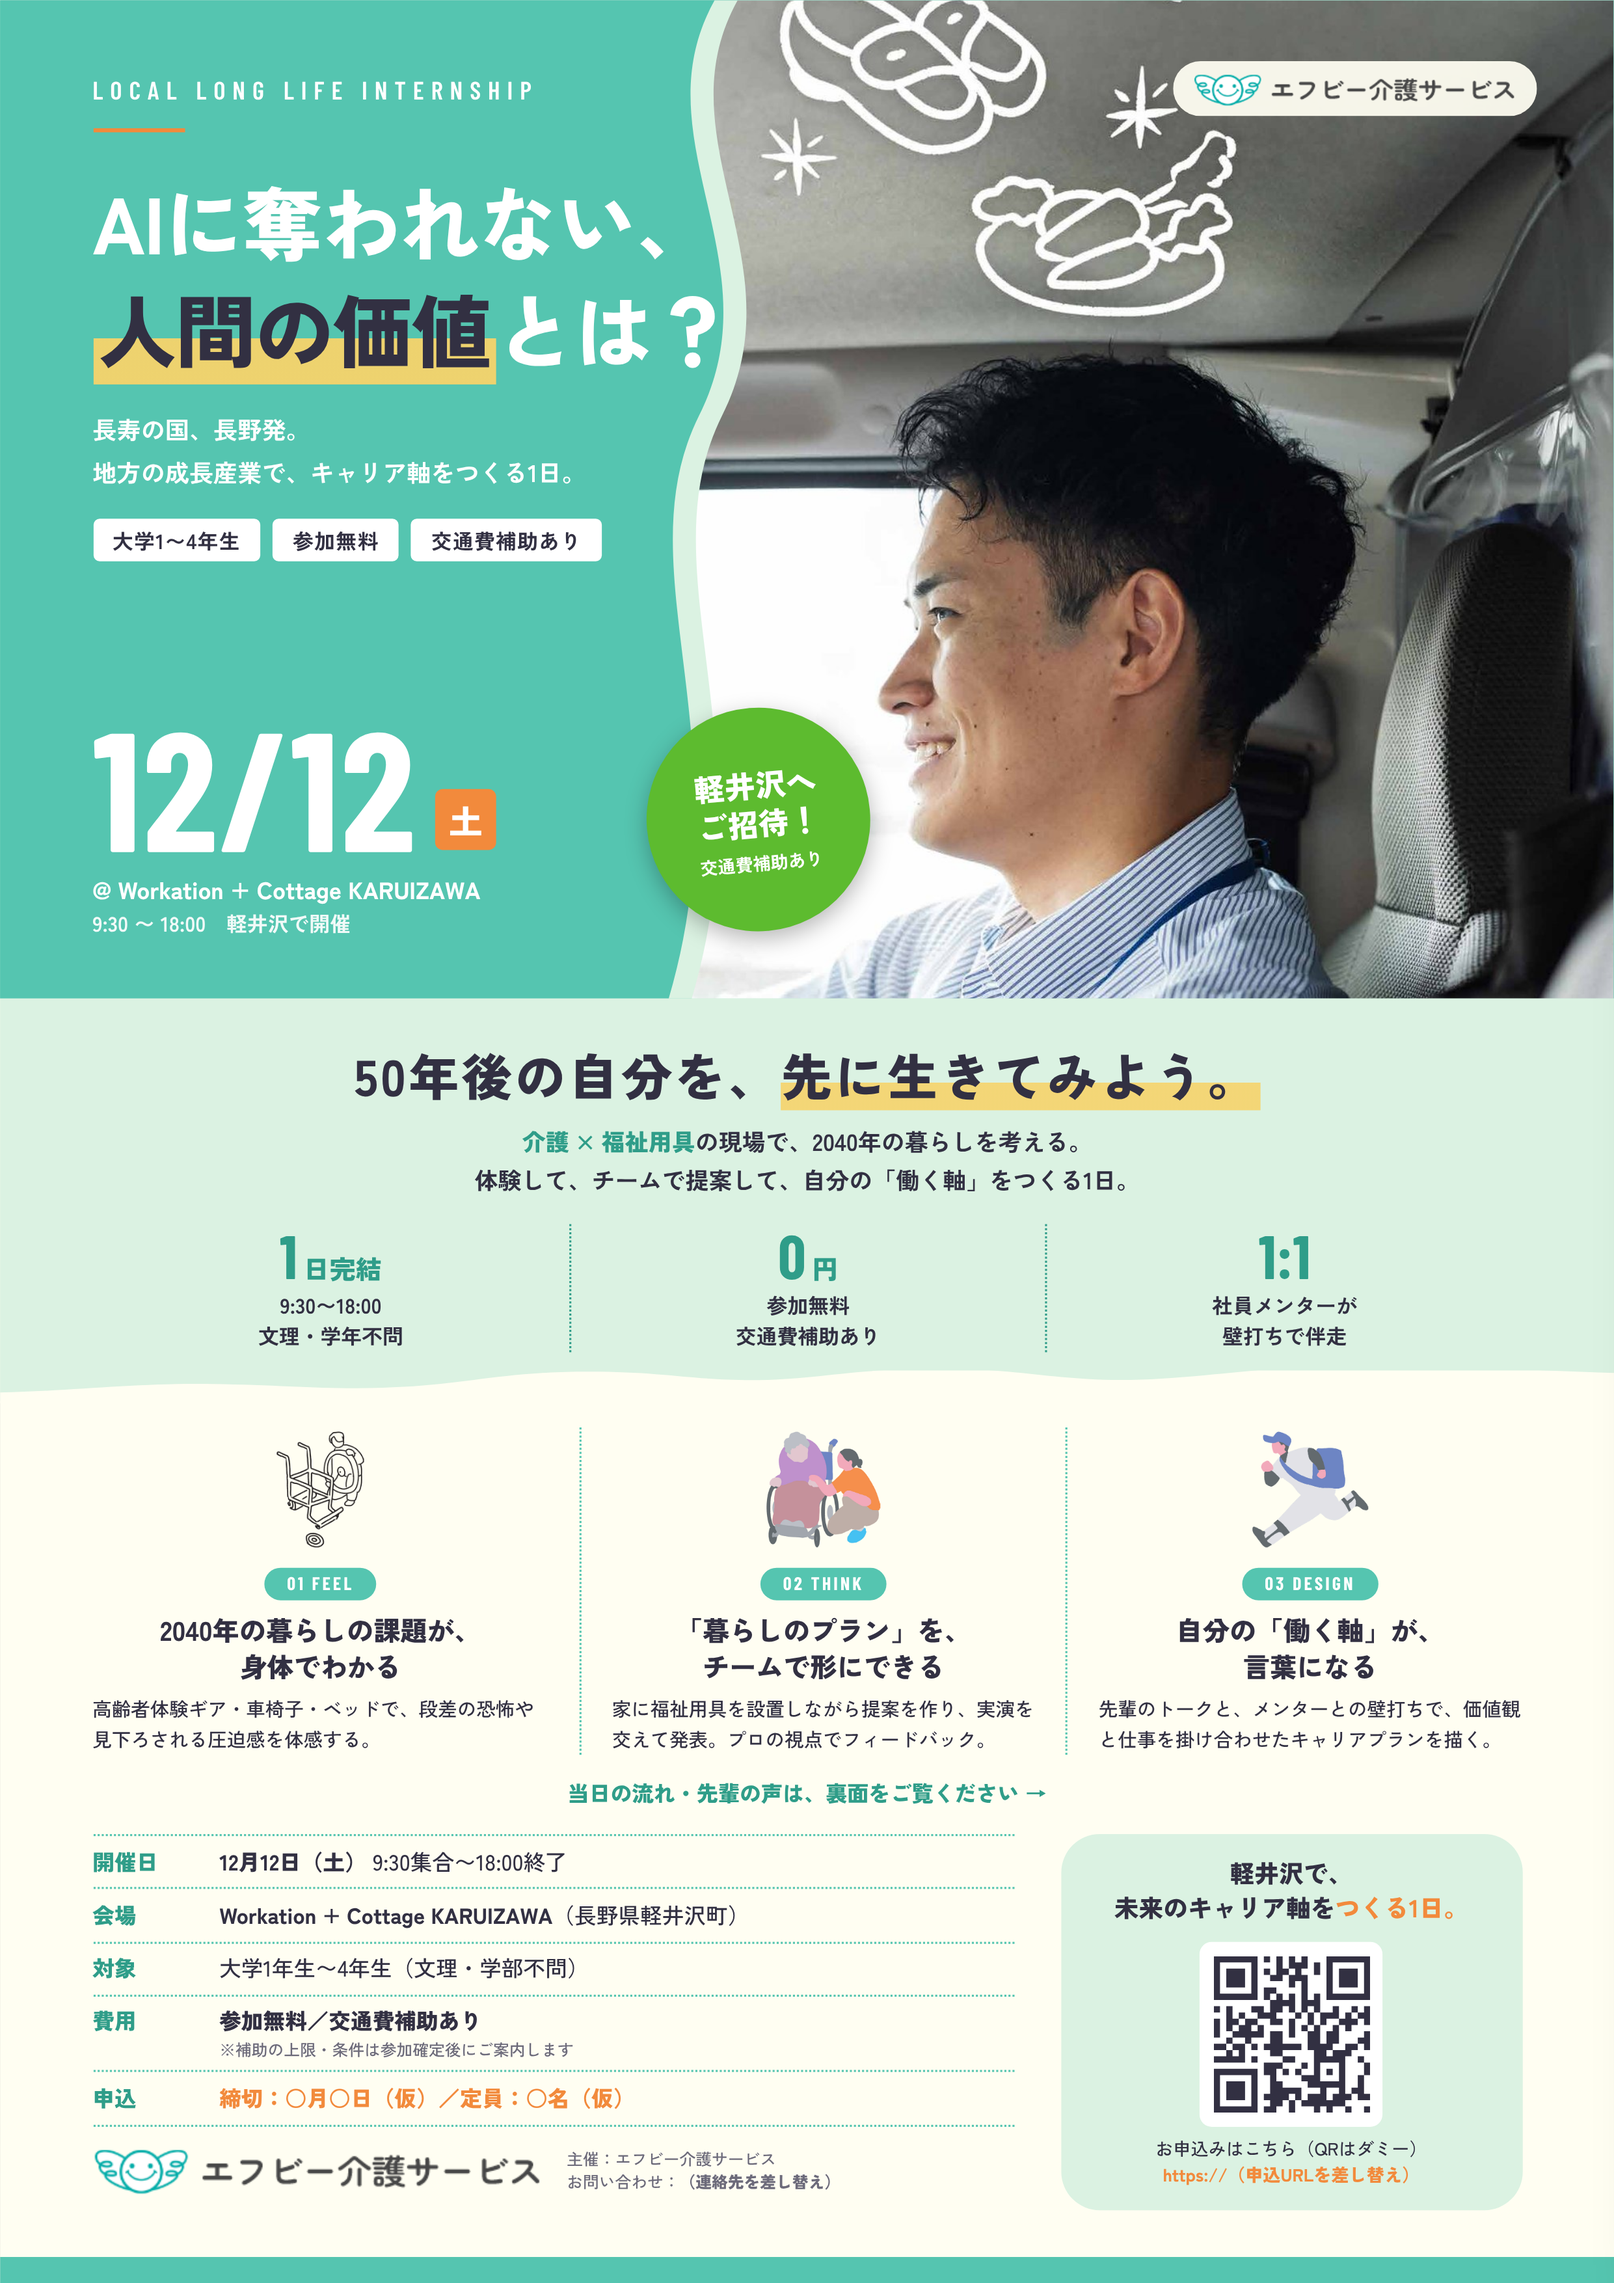
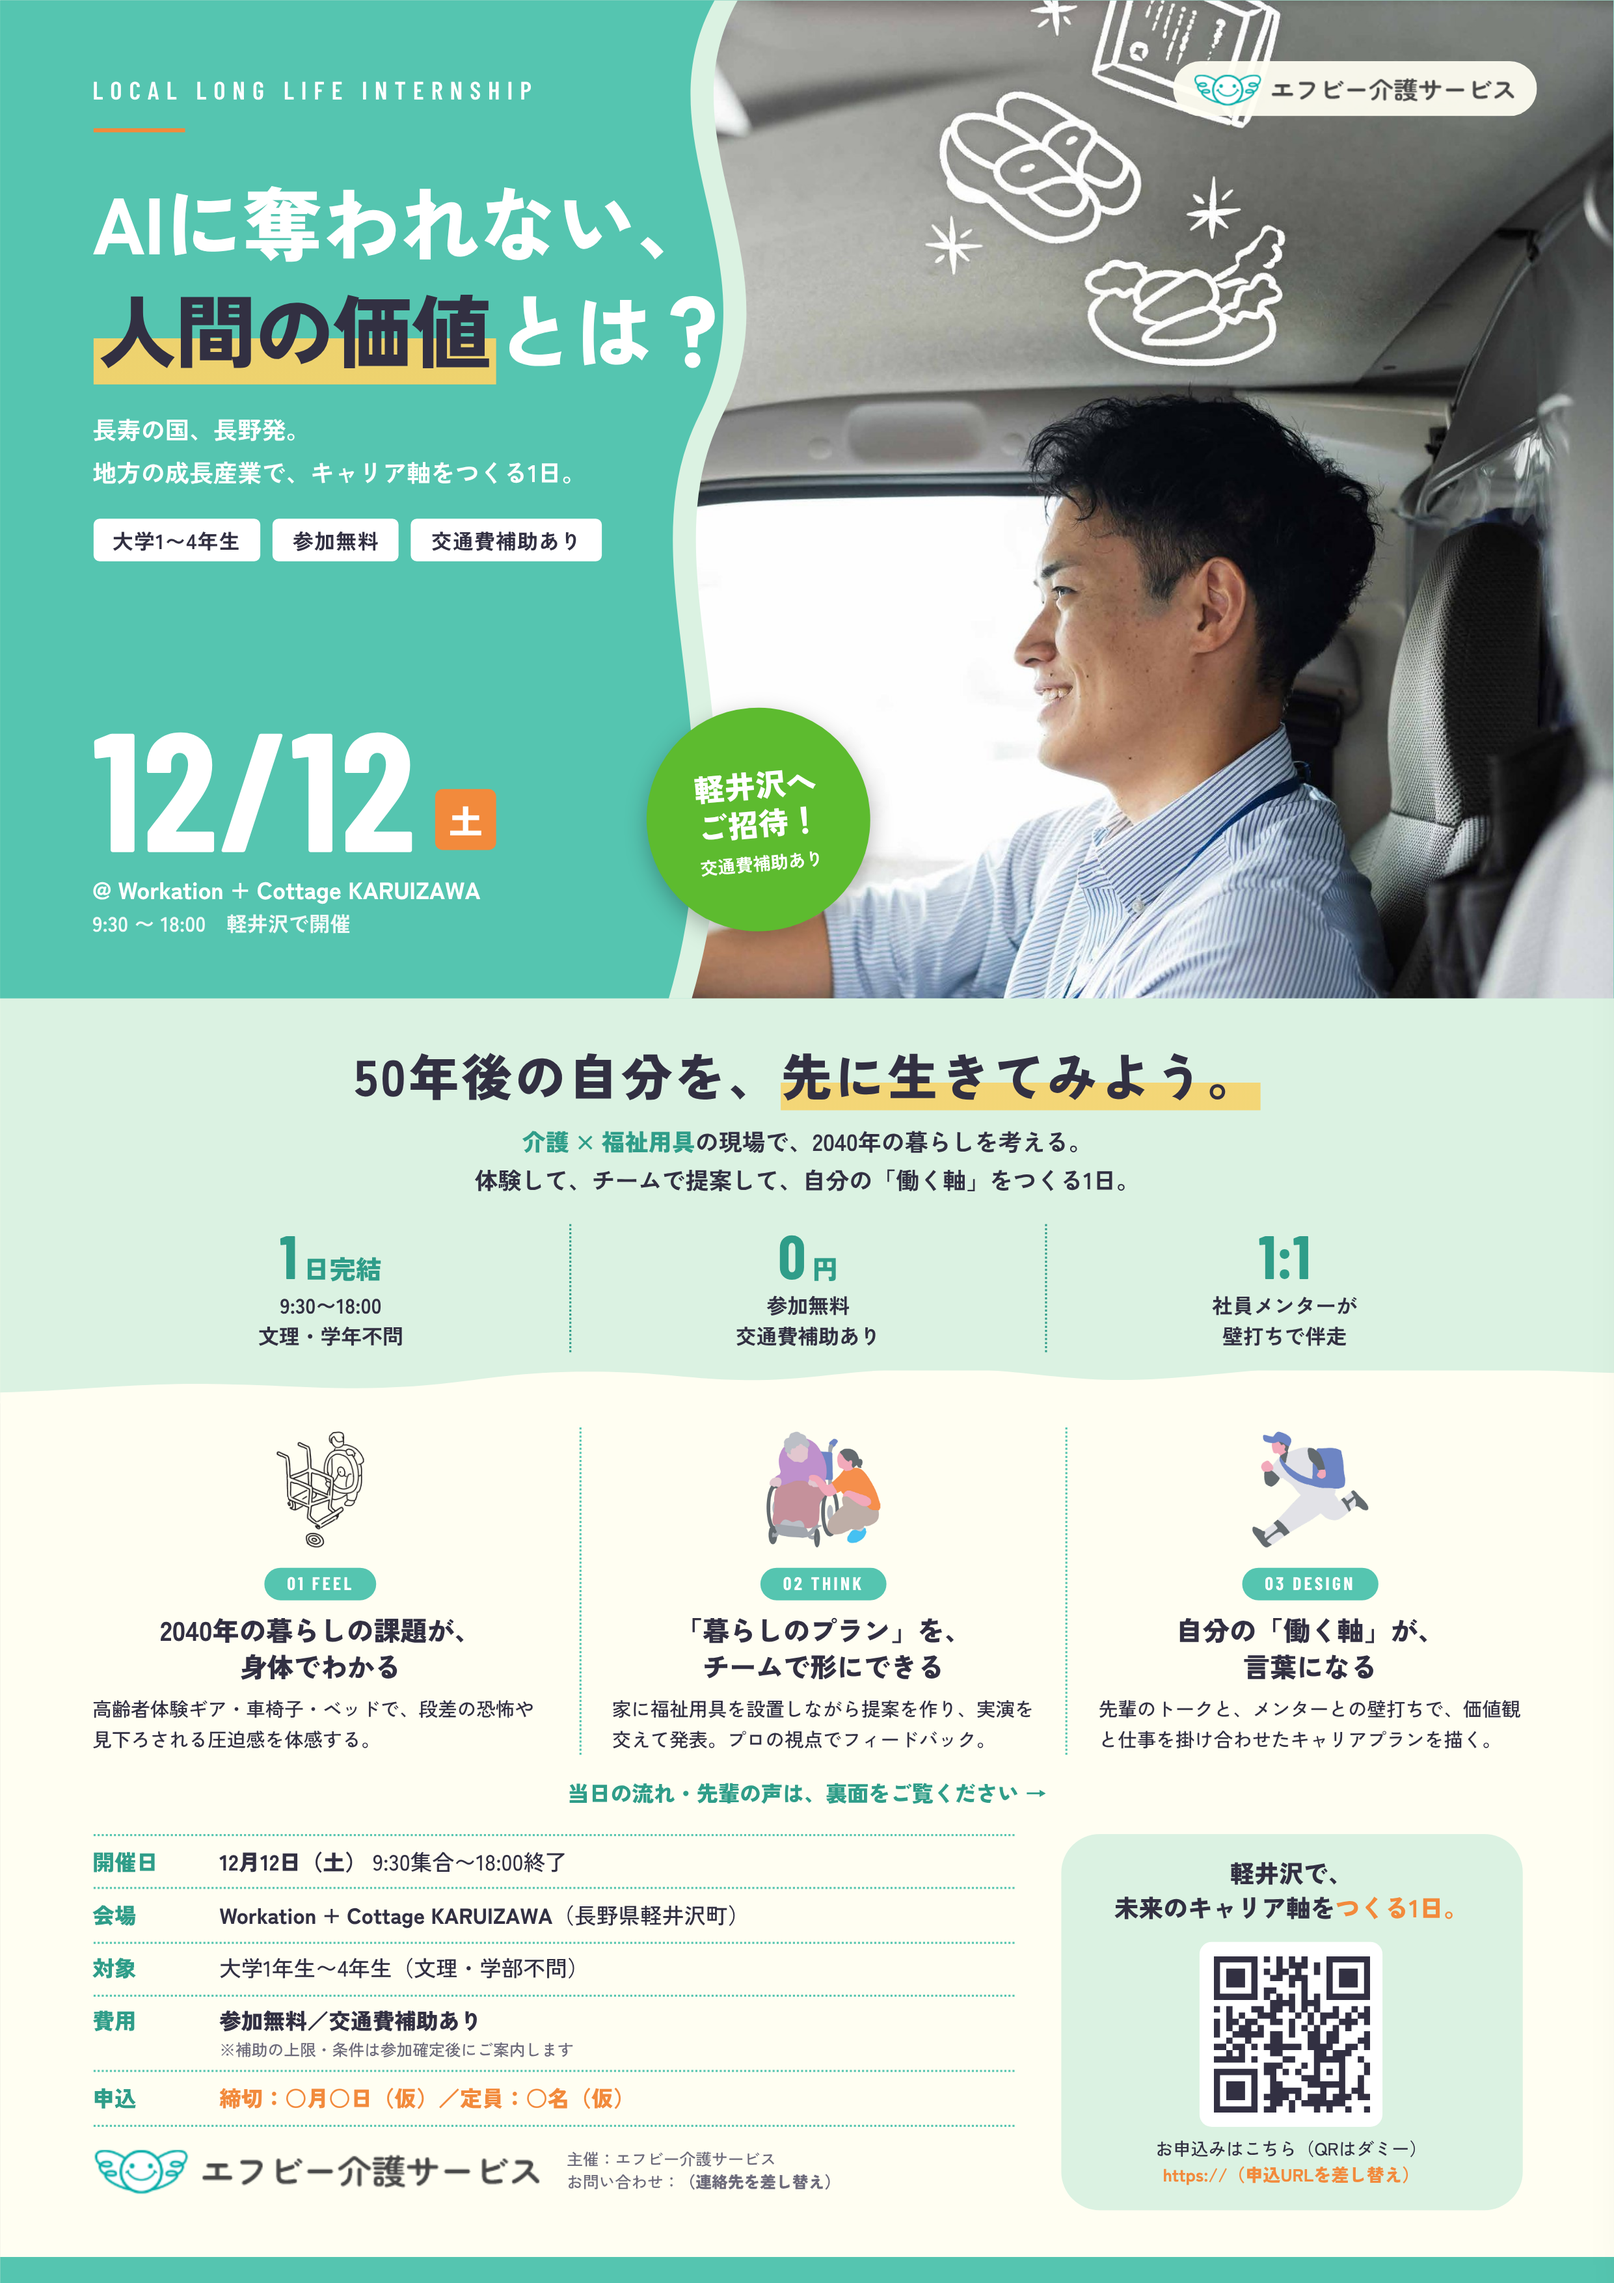
Flyer B: re-crop hero photo so the face sits near the center
Claude-Session: https://claude.ai/code/session_01Xw4BXDsgC1HppR11ewVEy3

Changed region(s): [[0.4345, 0.0, 1.0, 0.4349], [0.9931, 0.0932, 1.0, 0.1243]]

diff --git a/flyer/index.html b/flyer/index.html
@@ -267,7 +267,7 @@ img{display:block;max-width:100%}
   const WAVE='M96 0 C86 18 104 34 94 54 C84 74 100 96 90 130 L210 130 L210 0 Z';
   const RIM='M93 0 C83 18 101 34 91 54 C81 74 97 96 87 130 L210 130 L210 0 Z';
   const KV={
-    b1:`<div class="kv kvx b1"><svg class="kvs" viewBox="0 0 210 130" preserveAspectRatio="none" aria-hidden="true"><defs><clipPath id="cw"><path d="${WAVE}"/></clipPath></defs><rect width="210" height="130" fill="#55C5B0"/><path d="${RIM}" fill="#DBF2E2"/><image href="assets/photo/f4w.jpg" x="14" y="0" width="208" height="130" preserveAspectRatio="xMidYMid slice" clip-path="url(#cw)"/></svg>${txt}${logo}${bd}</div>`
+    b1:`<div class="kv kvx b1"><svg class="kvs" viewBox="0 0 210 130" preserveAspectRatio="none" aria-hidden="true"><defs><clipPath id="cw"><path d="${WAVE}"/></clipPath></defs><rect width="210" height="130" fill="#55C5B0"/><path d="${RIM}" fill="#DBF2E2"/><image href="assets/photo/f4w.jpg" x="90" y="0" width="120" height="130" preserveAspectRatio="xMidYMid slice" clip-path="url(#cw)"/></svg>${txt}${logo}${bd}</div>`
   };
   [['b1','FRONT B／比較案（山並みの曲線で切り抜き・画面のみ）']].reduce((prev,[k,label])=>{
     const c=A.cloneNode(true); c.id='front'+k.toUpperCase(); c.classList.add('alt');
